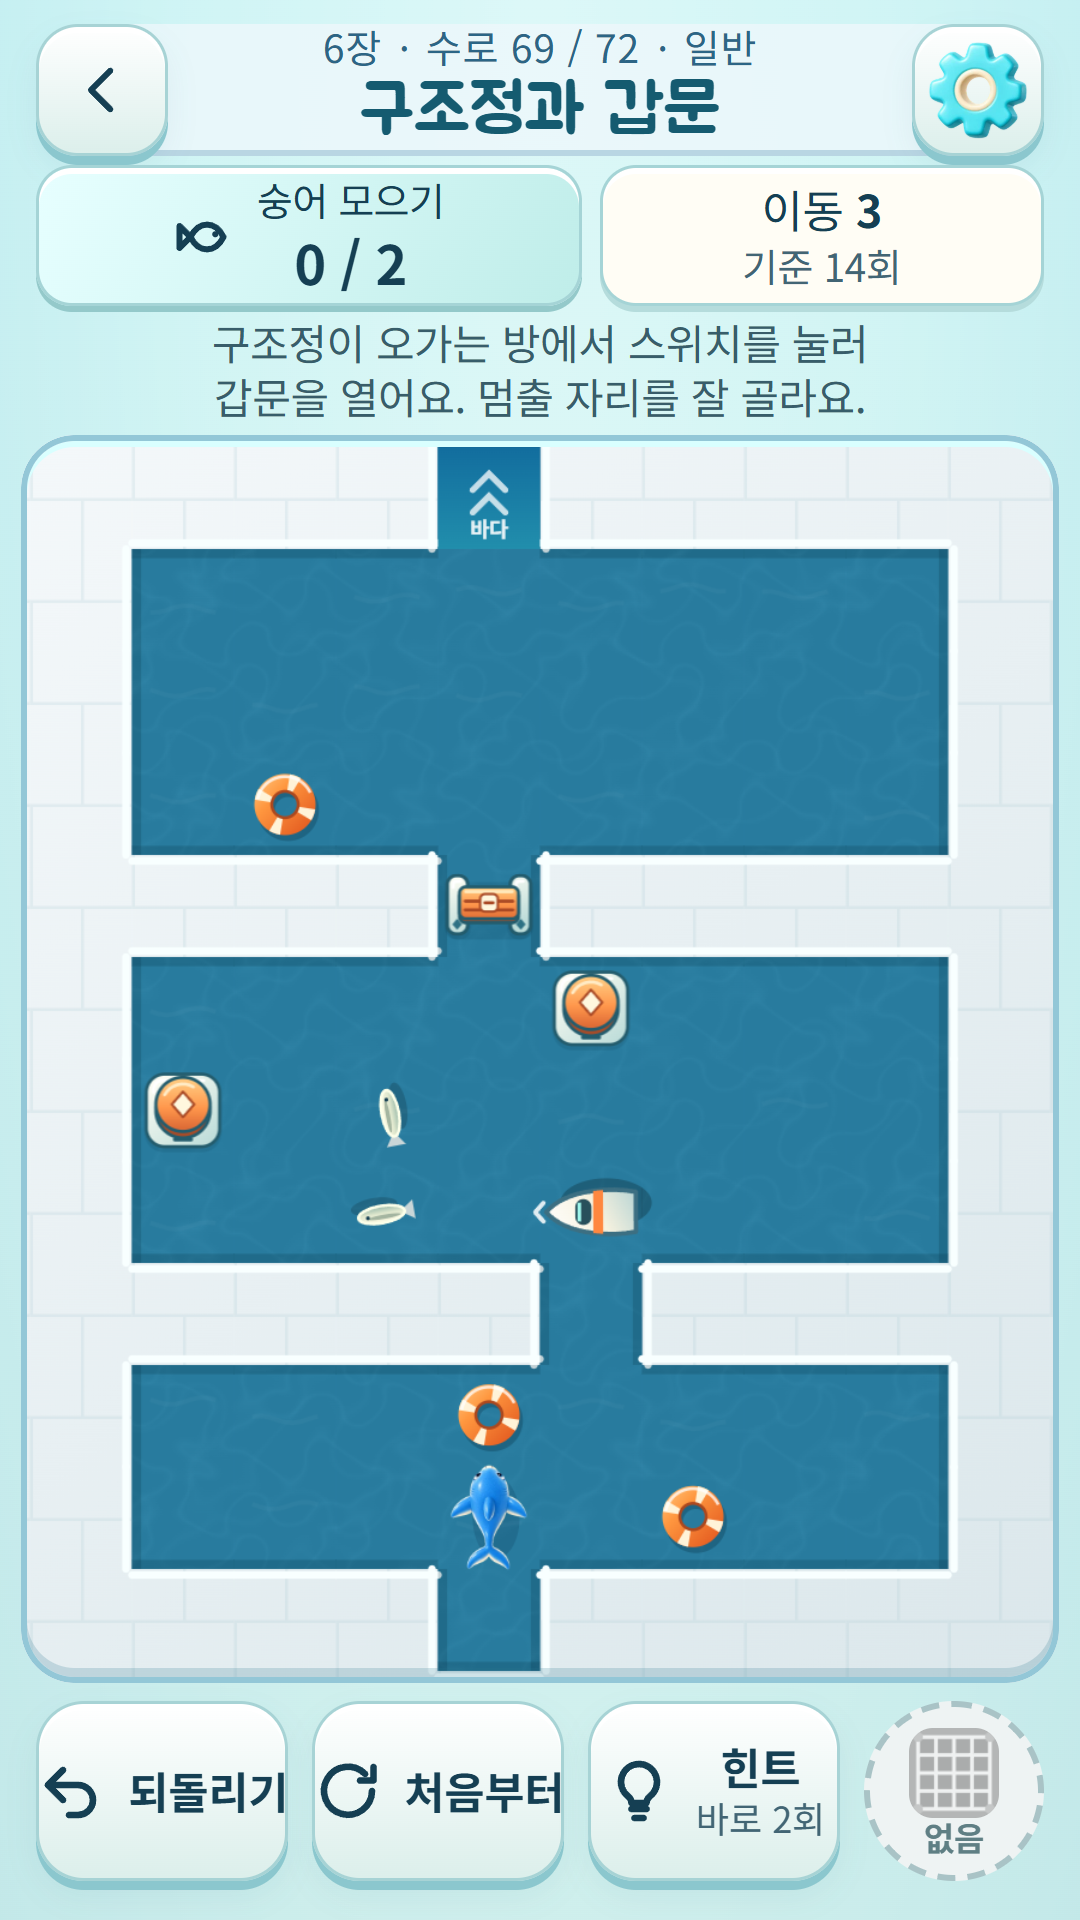
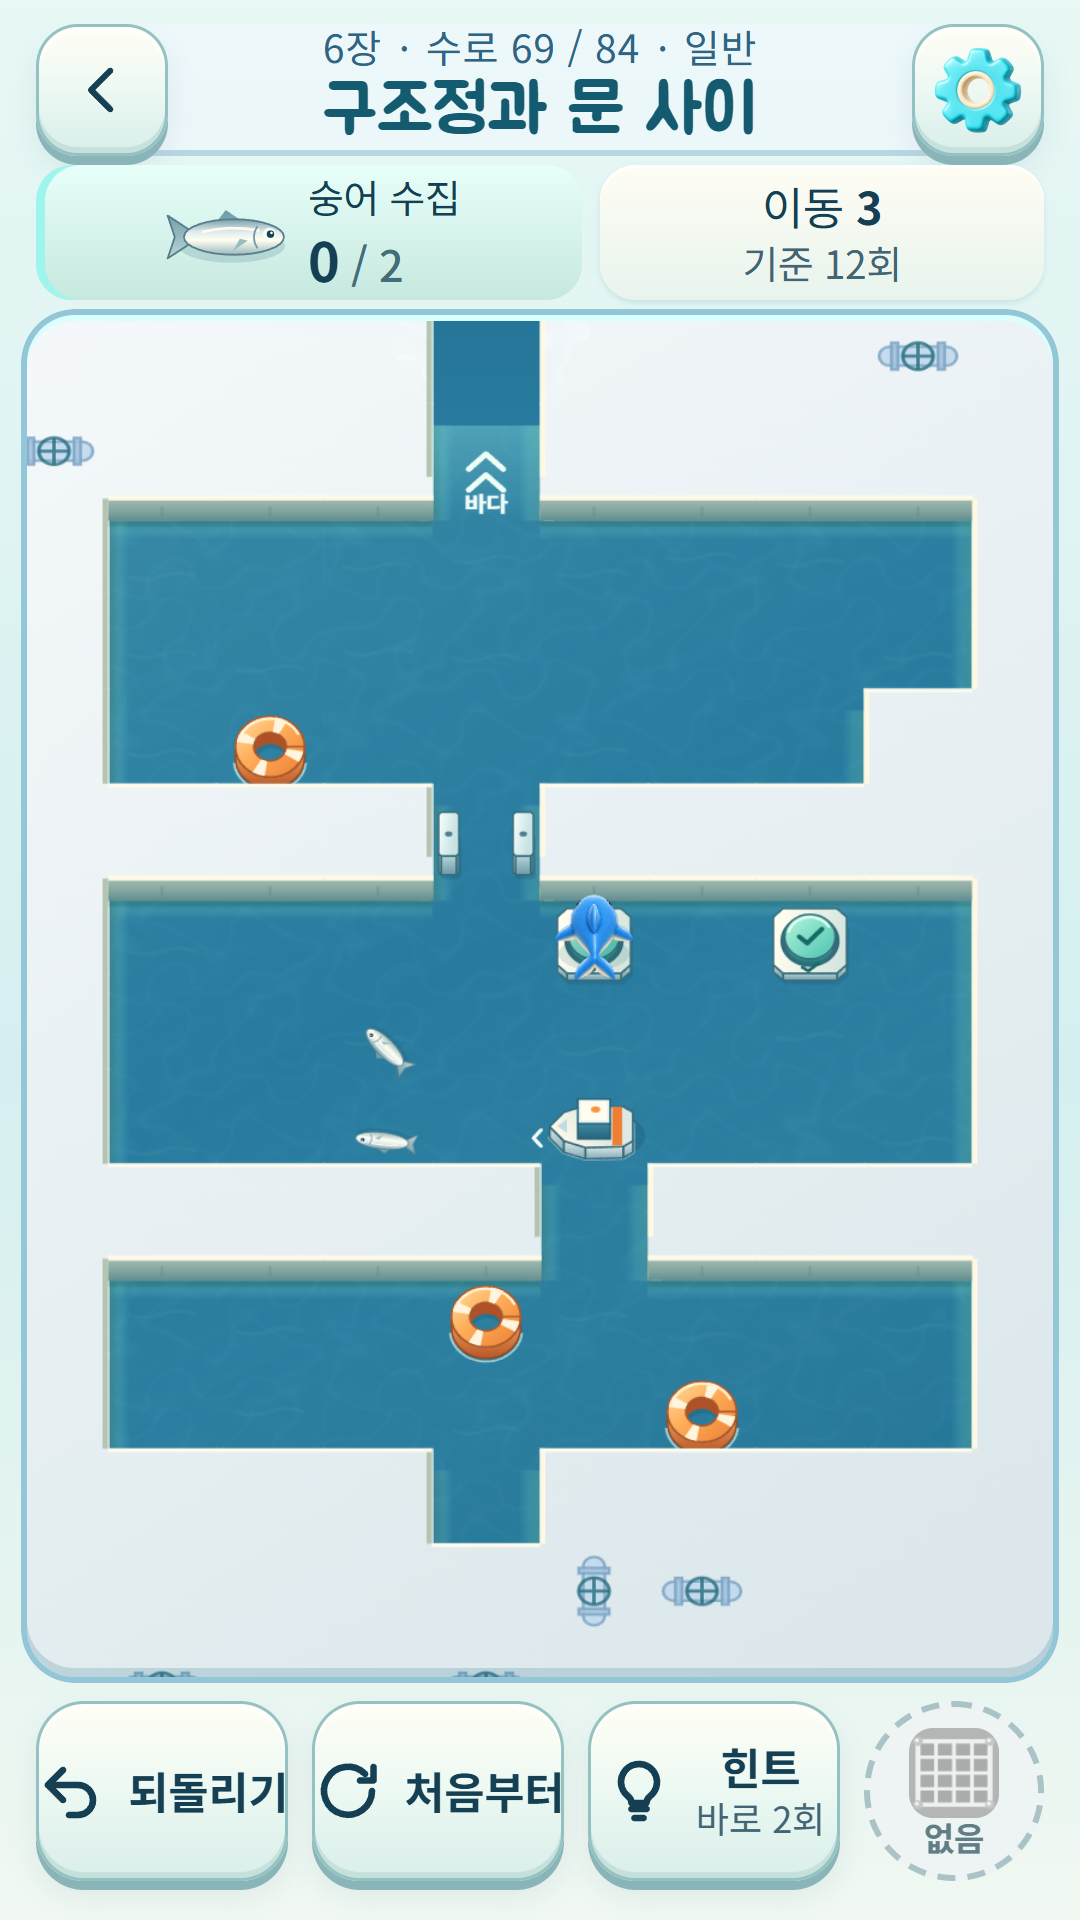
스토어 스크린샷 6장을 프로덕션 1.9 그래픽 기준으로 교체
- 입체 시점 게임판, 새 메인 화면, 간소화한 결과창, 수로 선택 시트 기준으로 다시 촬영
- tools/shots.js 해법을 현재 그물 규칙(친 그물 고정)으로 바꾸고 그물 장면에 친 그물이 보이도록 4번째 이동까지 재생
- STORE.md 스크린샷 설명 갱신

diff --git a/tools/shots.js b/tools/shots.js
@@ -19,13 +19,13 @@ const PORT = 9335;
 
 // Each scene: progress to store, then a script run on the title screen. `$`, sleep, tap(x, y), swipe(dir), placed are available.
 // Saves are keyed by LEVELS index (data-i); done(n) clears the first n canals in play order, before(i) every canal ahead of i.
-// Routes come from the solver on the current boards (set nets stay), so a redesigned canal never leaves a broken scene.
+// Routes come from the solver on the current boards under the current net rule (set nets stay), so a redesigned canal never leaves a broken scene.
 const E = require('../src/engine.js');
 const { LEVELS, STORY_ORDER, STORY_POSITION } = require('../src/levels.js');
 const done = n => Object.fromEntries(STORY_ORDER.slice(0, n).map((i, k) => [i, k % 5 === 3 ? 2 : 3]));
 const before = i => done(STORY_POSITION[i]);
 const route = (i, k = Infinity) => {
-  const g = E.parseLevel(LEVELS[i]), p = E.plan(g, g.start, 0, new Set(), g.nets, true);
+  const g = E.parseLevel(LEVELS[i]), p = E.plan(g, g.start, 0, new Set(), g.nets);
   return p.steps.slice(0, k).map(step => ({ dir: step.dir, nets: step.nets.map(n => [n % g.w, Math.floor(n / g.w)]) }));
 };
 const play = steps => `for (const s of ${JSON.stringify(steps)}) {
@@ -38,7 +38,7 @@ const scenes = [
   { name: '1-title', save: { best: done(30), last: STORY_ORDER[30], owned: ['basic', 'sakura', 'wave'], skin: 'wave' }, run: `` },
   { name: '2-jets', save: { best: before(jets), last: jets }, run: open(jets) + play(route(jets, 3)) + `
     $('hintBtn').click(); await sleep(900);` },
-  { name: '3-nets', save: { best: before(nets), last: nets }, run: open(nets) + play(route(nets, 6)) },
+  { name: '3-nets', save: { best: before(nets), last: nets }, run: open(nets) + play(route(nets, 4)) },
   { name: '4-clear', save: { best: before(clear), last: clear }, run: open(clear) + play(route(clear)) + `
     await sleep(1200);` },
   { name: '5-sluice', save: { best: before(sluice), last: sluice }, run: open(sluice) + play(route(sluice, 3)) },

diff --git a/docs/STORE.md b/docs/STORE.md
@@ -76,14 +76,14 @@
 |---|---|---|
 | `assets/icons/icon-512.png` | 앱 아이콘(프레임 없는 v2 원본 `assets/icon-concepts/shark-sos-android-v2/icon-1024.png`에서 `npm run icons`로 생성, versionCode 4부터) | 512×512 PNG (필수) |
 | `feature-graphic.png` | 그래픽 이미지(`tools/feature-graphic.html`, 리디자인 타이틀 카드 구성) | 1024×500 |
-| `1-title.png` | 메인 화면(고른 파도 상어, 이어서 구출, 오늘의 도전·자유 수로, 내 상어의 다음 목표) | 1080×1920 |
-| `2-jets.png` | 1장 도전 물줄기 수로 + 힌트 표시 | 1080×1920 |
-| `3-nets.png` | 그물 2개 수로(친 그물은 고정, 3장) | 1080×1920 |
+| `1-title.png` | 메인 화면(바다 풍경과 고른 파도 상어, 이어서 구출, 오늘의 도전·자유 수로, 내 상어·수로 선택·구조일지) | 1080×1920 |
+| `2-jets.png` | 1장 도전 물줄기 수로(입체 시점) + 힌트 안내 | 1080×1920 |
+| `3-nets.png` | 3장 그물 수로(친 그물 앞에서 멈춘 상어, 친 그물은 고정) | 1080×1920 |
 | `4-clear.png` | 별 3개 클리어 시트 | 1080×1920 |
-| `5-sluice.png` | 6장 수문 시설(스위치·수문·구조정) | 1080×1920 |
-| `6-chapters.png` | 수로 목록(3장 선택) | 1080×1920 |
+| `5-sluice.png` | 6장 수문 시설(입체 스위치·수문·구조정) | 1080×1920 |
+| `6-chapters.png` | 수로 선택 시트(3장 지역 그림과 수로 카드) | 1080×1920 |
 
-스크린샷 순서 추천: 1-title → 2-jets(힌트) → 3-nets(그물) → 4-clear(별 3개) → 5-sluice → 6-chapters. 2026-10-08에 72개·6장·그물 고정 규칙 기준으로 다시 만들었다(그래픽 이미지 문구도 숫자 없이 '매일 새 구조작전 · 끝없는 자유 수로'). 장면은 수로 위치와 풀이기 해법으로 정해 판이 바뀌어도 깨지지 않는다. 2026-10-02 리디자인 이전의 `*-sos.jpg`·7~9번 JPG는 삭제했다(git 이력에 남음).
+스크린샷 순서 추천: 1-title → 2-jets(힌트) → 3-nets(그물) → 4-clear(별 3개) → 5-sluice → 6-chapters. 2026-10-08에 72개·6장·그물 고정 규칙 기준으로 다시 만들었다(그래픽 이미지 문구도 숫자 없이 '매일 새 구조작전 · 끝없는 자유 수로'). 장면은 수로 위치와 풀이기 해법으로 정해 판이 바뀌어도 깨지지 않는다. 2026-10-22 프로덕션 1.9 기준(입체 시점·새 메인·결과창·수로 선택 시트)으로 다시 만들어 스토어 등록정보 휴대전화 스크린샷을 교체했다. 이때 `tools/shots.js`의 해법을 현재 그물 규칙(친 그물 고정)으로 바꿔 그물 장면에 친 그물이 보이게 했다. 2026-10-02 리디자인 이전의 `*-sos.jpg`·7~9번 JPG는 삭제했다(git 이력에 남음).
 이미지는 저장된 진행 상태를 넣은 실제 브라우저 화면이며 신규 사용자 시험 결과가 아니다. 게임 화면이 바뀌면 `npm run build:web && node tools/shots.js`로 다시 만든다(이 PC에서는 `BROWSER` 환경 변수로 Chrome 경로 지정).
 
 ## 콘텐츠 등급 설문 (IARC) 답변 가이드
